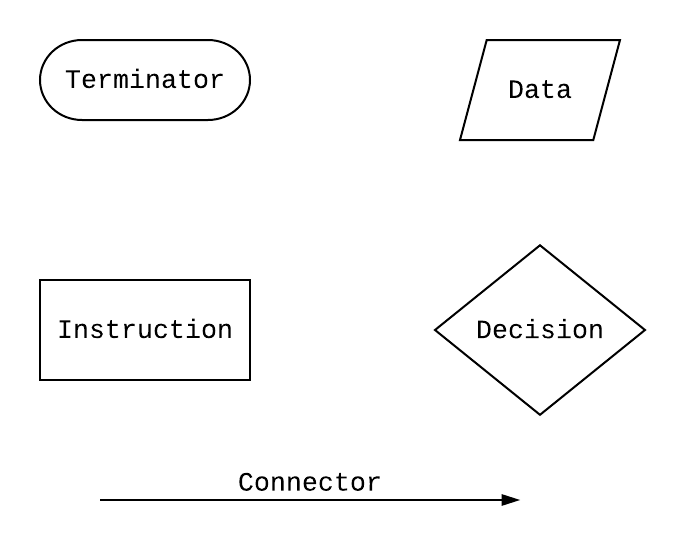
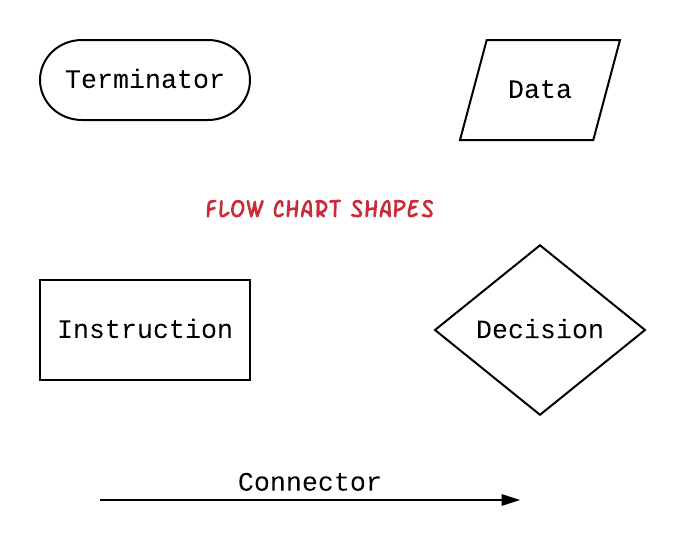
update flow charts

Changed region(s): [[0.2759, 0.3431, 0.6438, 0.4055]]

diff --git a/PITCHME.md b/PITCHME.md
@@ -9,9 +9,9 @@
 ---
 ## Search Examples in Computers
 
-- Amazon Search for Products
-- Netflix Search for movies.
-- Google Search for anything in the internet.
+- Amazon Search for Products. |
+- Netflix Search for movies. |
+- Google Search for anything in the internet. |
 
 ---
 
@@ -19,11 +19,11 @@
 
 > A Flowchart is a type of diagram used to represent algorithms.
 
-<img src="assets/image/flowchart-shapes.png" alt="Flowchart Shapes" width="500px" height="450px">
+<img src="assets/image/flowchart-shapes.png" alt="Flowchart Shapes" width="450px" height="400px">
 
 +++
 
-### Quiz: Match flowchart an Algorithm
+### Quiz: Match flowchart to an Algorithm
 
 <img src="assets/image/flowchart-quiz.png" alt="Match flowchart to algorithms" width="670px" height="450px">
 
@@ -48,7 +48,7 @@
 	</tr>
 	<tr>
 		<td>Assignment </td>
-		<td class="fragment"> == </td>
+		<td class="fragment"> = </td>
 	</tr>
 	<tr>
 		<td>Comparison</td>
@@ -79,7 +79,7 @@ The ***Array*** is the simplest way to store a bunch of items in computer memory
 
 ```java
 
-Example
+Examples:
 
 Array primes = [2, 3, 5, 7, 11,
 				13, 17, 19, 23, 29,
@@ -111,7 +111,7 @@ In computer science, index always starts with ***0***
 
 Let's say we have all prime numbers less than 100 stored in a array `primes`
 
-Given any number N between 1 and 100, tell if the number is a prime by searching the array `primes`
+Given any number N between 1 and 100, tell if the number is a prime by searching the array `primes`.
 
 ---
 
@@ -128,7 +128,7 @@ Given any number N between 1 and 100, tell if the number is a prime by searching
 
 ## Limitations of binary search
 
-- The collection has to be pre-sorted.
+- The collection has to be pre-sorted. |
 
 ---
 
@@ -150,7 +150,7 @@ Can you come up with an algorithm for computer to solve this?
 
 +++
 
-### Guessing Number Game Algorithn.
+### Guessing Number Game Algorithm.
 
 <img src="assets/image/guessing-number-algorithm.png" alt="Guessing number game algorithm" width="650px" height="450px">
 
